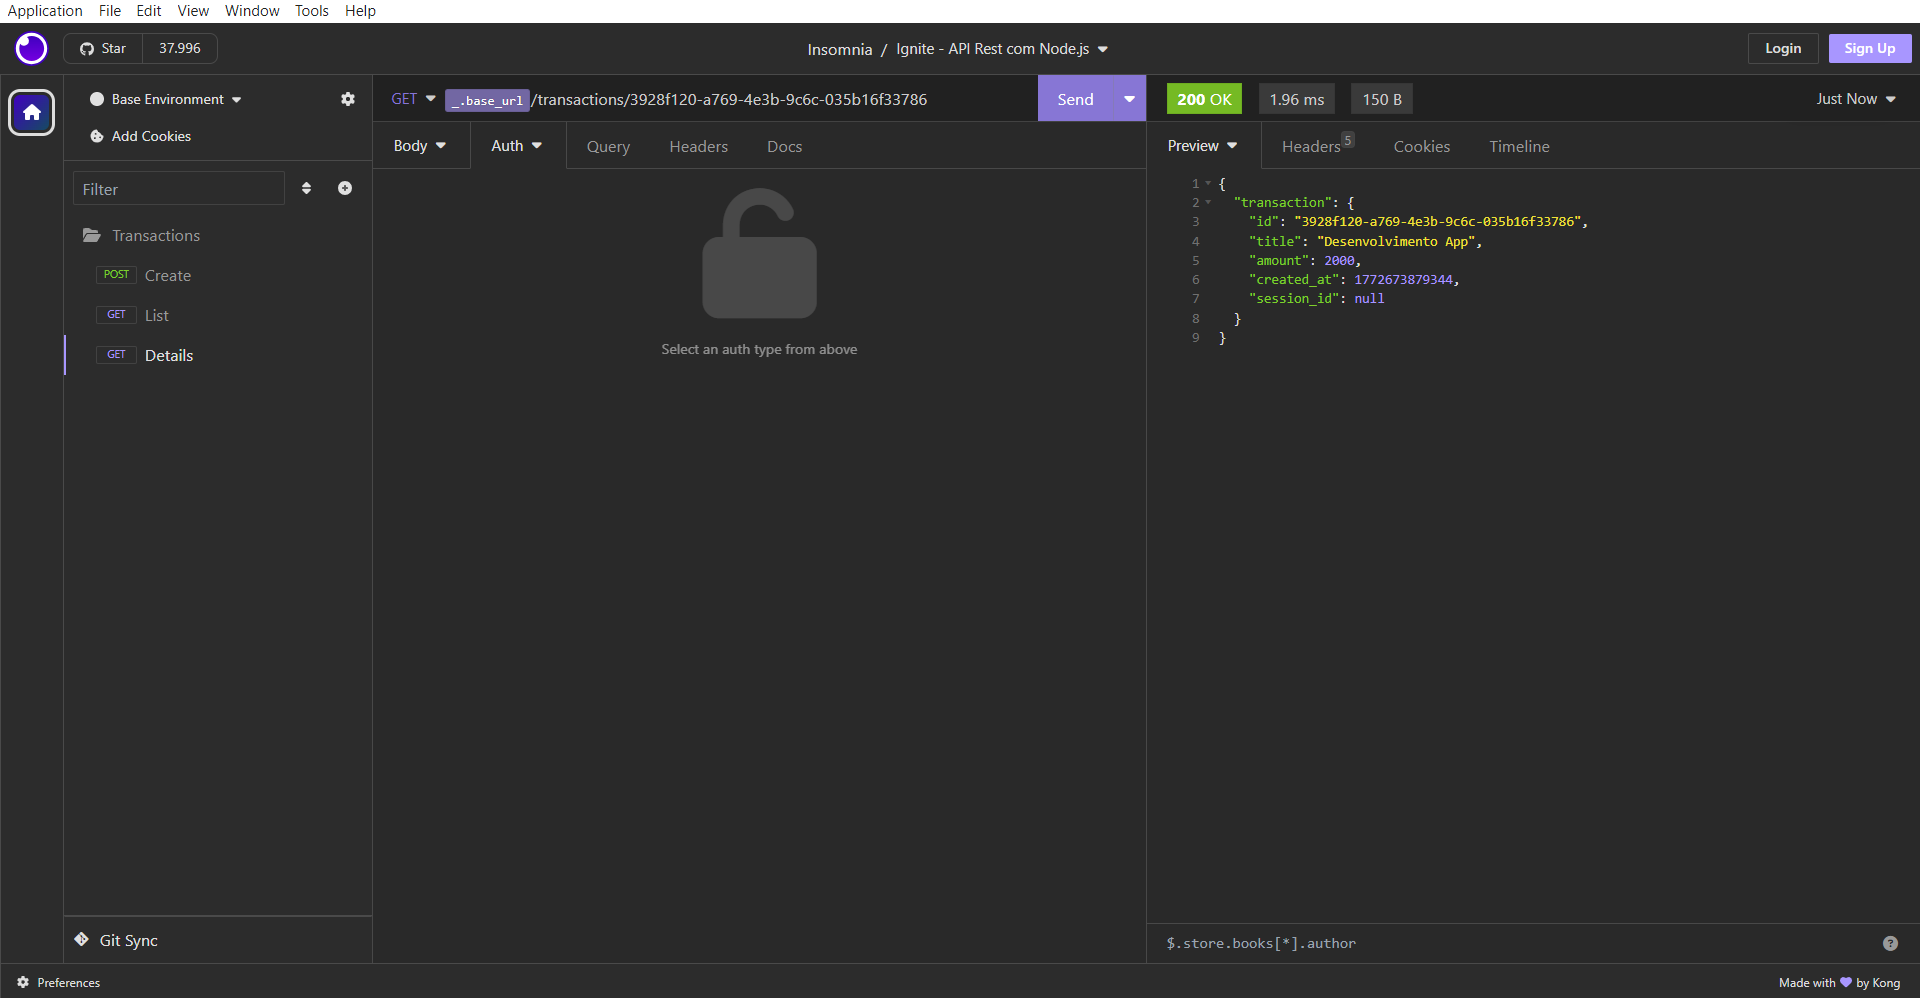
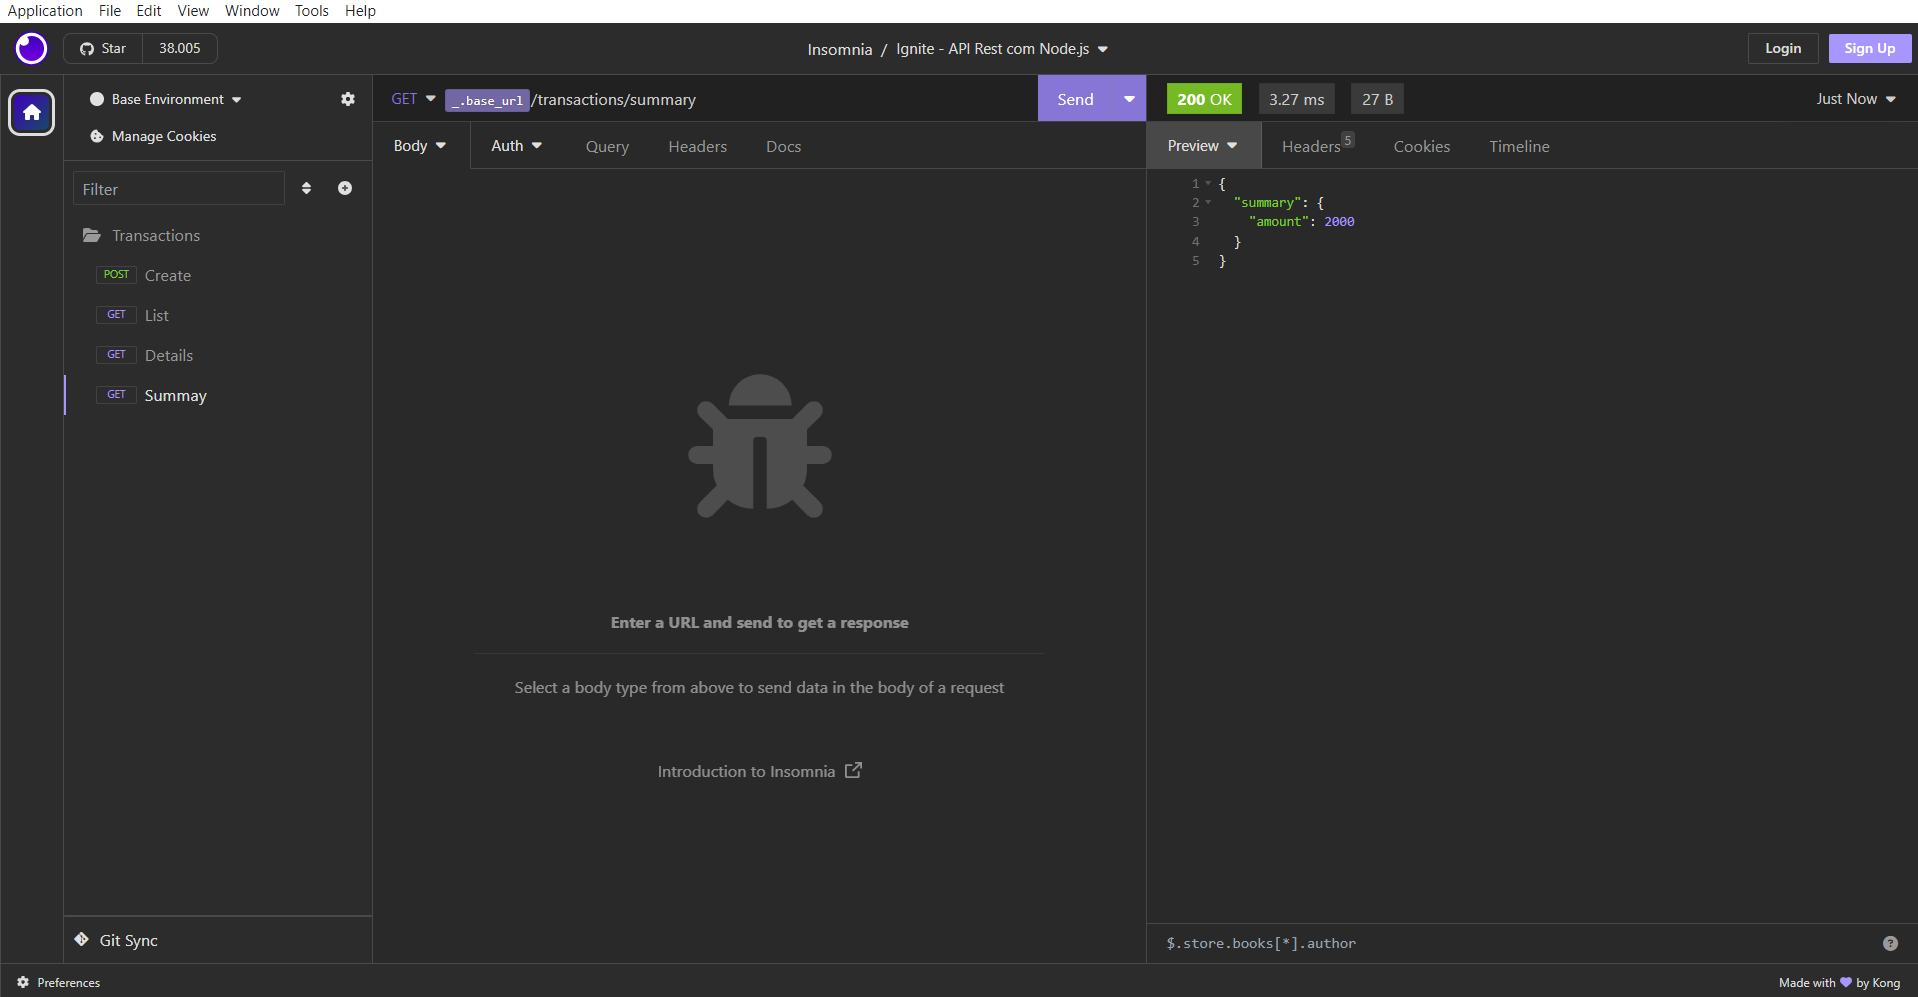
Trabalhando com cookies + hook globais

diff --git a/src/routes/transactions.ts b/src/routes/transactions.ts
@@ -2,8 +2,13 @@ import { FastifyInstance } from 'fastify'
 import { z } from 'zod'
 import { randomUUID } from 'node:crypto'
 import { knex } from '../database'
+import { checkSessionIdExists } from '../middlewares/checkSessionIdExists'
 
 export async function transactionsRoutes(app: FastifyInstance) {
+  app.addHook('preHandler', async (request) => {
+    console.log(`[${request.method}] ${request.url}`)
+  })
+
   app.post('/', async (request, reply) => {
     const createTransactionBodySchema = z.object({
       title: z.string(),
@@ -15,43 +20,76 @@ export async function transactionsRoutes(app: FastifyInstance) {
       request.body,
     )
 
+    let sessionId = request.cookies.sessionId
+
+    if (!sessionId) {
+      sessionId = randomUUID()
+
+      reply.setCookie('sessionId', sessionId, {
+        path: '/',
+        maxAge: 60 * 60 * 24 * 7, // 7 days
+      })
+    }
+
     await knex('transactions').insert({
       id: randomUUID(),
       title,
       amount: type === 'credit' ? amount : amount * -1,
       created_at: new Date(),
+      session_id: sessionId,
     })
 
     return reply.status(201).send()
   })
 
-  app.get('/', async () => {
-    const transactions = await knex('transactions').select()
+  app.get('/', { preHandler: [checkSessionIdExists] }, async (request) => {
+    const { sessionId } = request.cookies
+
+    const transactions = await knex('transactions')
+      .select()
+      .where('session_id', sessionId)
 
     return { transactions }
   })
 
-  app.get('/:id', async (request, reply) => {
-    const getTransactionParamsSchema = z.object({
-      id: z.string().uuid(),
-    })
+  app.get(
+    '/:id',
+    { preHandler: [checkSessionIdExists] },
+    async (request, reply) => {
+      const getTransactionParamsSchema = z.object({
+        id: z.string().uuid(),
+      })
 
-    const { id } = getTransactionParamsSchema.parse(request.params)
+      const { id } = getTransactionParamsSchema.parse(request.params)
+      const { sessionId } = request.cookies
 
-    const transaction = await knex('transactions').where('id', id).first()
+      const transaction = await knex('transactions')
+        .where({
+          id,
+          session_id: sessionId,
+        })
+        .first()
 
-    if (!transaction) {
-      return reply.status(404).send({ error: 'Transaction not found' })
-    }
+      if (!transaction) {
+        return reply.status(404).send({ error: 'Transaction not found' })
+      }
 
-    return { transaction }
-  })
+      return { transaction }
+    },
+  )
 
-  app.get('/summary', async () => {
-    const summary = await knex('transactions')
-      .sum('amount', { as: 'amount' })
-      .first()
+  app.get(
+    '/summary',
+    { preHandler: [checkSessionIdExists] },
+    async (request) => {
+      const { sessionId } = request.cookies
 
-    return { summary }
-  })
+      const summary = await knex('transactions')
+        .sum('amount', { as: 'amount' })
+        .where('session_id', sessionId)
+        .first()
+
+      return { summary }
+    },
+  )
 }

diff --git a/src/server.ts b/src/server.ts
@@ -1,9 +1,11 @@
 import fastify from 'fastify'
+import cookie from '@fastify/cookie'
 import { transactionsRoutes } from './routes/transactions'
 import { env } from './env'
 
 const app = fastify()
 
+app.register(cookie)
 app.register(transactionsRoutes, { prefix: '/transactions' })
 
 app.listen({ port: env.PORT }).then(() => {

diff --git a/src/middlewares/checkSessionIdExists.ts b/src/middlewares/checkSessionIdExists.ts
@@ -1,0 +1,12 @@
+import { FastifyReply, FastifyRequest } from 'fastify'
+
+export async function checkSessionIdExists(
+  request: FastifyRequest,
+  reply: FastifyReply,
+) {
+  const sessionId = request.cookies.sessionId
+
+  if (!sessionId) {
+    return reply.status(401).send({ error: 'Unauthorized' })
+  }
+}

diff --git a/README.md b/README.md
@@ -143,3 +143,7 @@ O ESLint serve para padronizar o projeto
 ### Validação de dados
 
 - `yarn add zod` instala o zod
+
+### Utilizando cookies no Fastify
+
+- `yarn add @fastify/cookie` instal o @fastify/cookie
